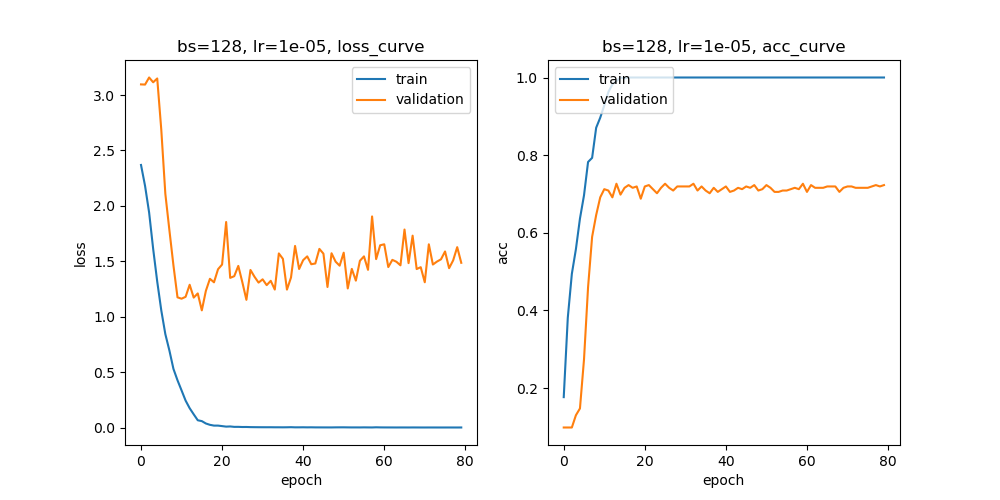
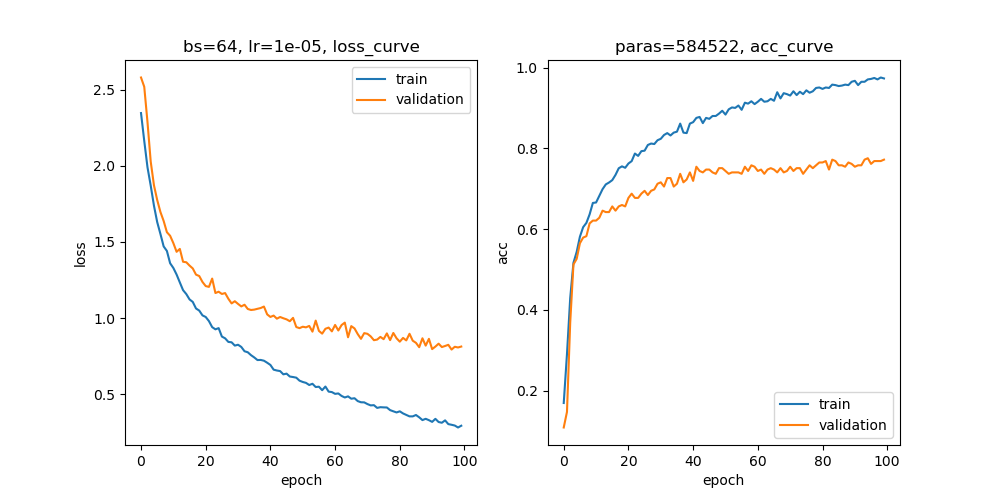
My version complete.

diff --git a/HW1/train.py b/HW1/train.py
@@ -9,8 +9,8 @@ import torchvision
 import numpy as np
 import matplotlib.pyplot as plt
 
-N_EPOTH=80
-BATCH_SIZE=128
+N_EPOTH=100
+BATCH_SIZE=64
 LEARNING_RATE=1e-5
 MODEL_NAME = "sport_model.pth"
 
@@ -100,7 +100,8 @@ class SportVGGNet(nn.Module):
             nn.ReLU(inplace=True),
             nn.Conv2d(in_channels=512, out_channels=512, kernel_size=3, stride=1, padding=1),
             nn.BatchNorm2d(num_features=512),
-            nn.ReLU(inplace=True)
+            nn.ReLU(inplace=True),
+            nn.MaxPool2d(kernel_size=2, stride=2)
         )
         self.avgpool = nn.AdaptiveAvgPool2d((7, 7))
         self.fc_block = nn.Sequential(
@@ -125,10 +126,82 @@ class SportVGGNet(nn.Module):
         output = self.fc_block(output)
         return output
 
+class MySportVGGNet(nn.Module):
+    def __init__(self):
+        super(MySportVGGNet, self).__init__()
+
+        self.conv_block_1=nn.Sequential(
+            nn.Conv2d(in_channels=3, out_channels=64, kernel_size=3, stride=1, padding=1),
+            nn.BatchNorm2d(num_features=64),
+            nn.ReLU(inplace=True),
+            nn.Conv2d(in_channels=64, out_channels=64, kernel_size=1, stride=1, padding=0),
+            nn.BatchNorm2d(num_features=64),
+            nn.ReLU(inplace=True),
+            nn.MaxPool2d(2, 2)
+        )
+        self.conv_block_2=nn.Sequential(
+            nn.Conv2d(in_channels=64, out_channels=128, kernel_size=3, stride=1, padding=1),
+            nn.BatchNorm2d(num_features=128),
+            nn.ReLU(inplace=True),
+            nn.Conv2d(in_channels=128, out_channels=128, kernel_size=1, stride=1, padding=0),
+            nn.BatchNorm2d(num_features=128),
+            nn.ReLU(inplace=True),
+            nn.MaxPool2d(2, 2)
+        )
+        self.conv_block_3=nn.Sequential(
+            nn.Conv2d(in_channels=128, out_channels=256, kernel_size=3, stride=1, padding=1),
+            nn.BatchNorm2d(num_features=256),
+            nn.ReLU(inplace=True),
+            nn.Conv2d(in_channels=256, out_channels=256, kernel_size=1, stride=1, padding=0),
+            nn.BatchNorm2d(num_features=256),
+            nn.ReLU(inplace=True),
+            nn.MaxPool2d(2, 2)
+        )
+        # self.conv_block_4=nn.Sequential(
+        #     nn.Conv2d(in_channels=256, out_channels=512, kernel_size=3, stride=1, padding=1),
+        #     nn.BatchNorm2d(num_features=512),
+        #     nn.ReLU(inplace=True),
+        #     nn.Conv2d(in_channels=512, out_channels=512, kernel_size=1, stride=1, padding=0),
+        #     nn.BatchNorm2d(num_features=512),
+        #     nn.ReLU(inplace=True),
+        #     nn.MaxPool2d(kernel_size=2, stride=2)
+        # )
+        # self.conv_block_5=nn.Sequential(
+        #     nn.Conv2d(in_channels=512, out_channels=512, kernel_size=3, stride=1, padding=1),
+        #     nn.BatchNorm2d(num_features=512),
+        #     nn.ReLU(inplace=True),
+        #     nn.Conv2d(in_channels=512, out_channels=512, kernel_size=1, stride=1, padding=0),
+        #     nn.BatchNorm2d(num_features=512),
+        #     nn.ReLU(inplace=True),
+        #     nn.MaxPool2d(kernel_size=2, stride=2)
+
+        # )
+        self.avgpool = nn.AdaptiveAvgPool2d((7, 7))
+        self.fc_block = nn.Sequential(
+            nn.Linear(in_features = 7*7*256, out_features = 10)
+            # nn.Dropout(0.1),
+            # nn.Linear(in_features = 4096, out_features = 4096),
+            # nn.ReLU(inplace=True),
+            # nn.Dropout(0.1),
+            # nn.Linear(in_features = 100, out_features = 10)
+        )
+
+    def forward(self, x):
+        output = self.conv_block_1(x)
+        output = self.conv_block_2(output)
+        output = self.conv_block_3(output)
+        # output = self.conv_block_4(output)
+        # output = self.conv_block_5(output)
+        output = self.avgpool(output)
+        # flatten
+        output = output.reshape(output.shape[0], -1)
+        output = self.fc_block(output)
+        return output
+
 
 def main():
     # Device
-    device =torch.device('cuda:1' if torch.cuda.is_available() else 'cpu')
+    device =torch.device('cuda:2' if torch.cuda.is_available() else 'cpu')
     print('Device: ', device)
     # dataset
     train_dataset = SportLoader("train")
@@ -137,13 +210,15 @@ def main():
     train_loader = DataLoader(train_dataset, batch_size=BATCH_SIZE, shuffle=True)
     val_loader = DataLoader(val_dataset, batch_size=BATCH_SIZE, shuffle=True)
     #loss and optimizer
-    model = SportVGGNet().to(device)
+    model = MySportVGGNet().to(device)
     criterion = nn.CrossEntropyLoss()
     optimizer = torch.optim.Adam(model.parameters(), lr=LEARNING_RATE)
     train_loss = []
     train_acc = []
     val_loss=[]
     val_acc=[]
+    num_params = sum(p.numel() for p in model.parameters() if p.requires_grad)
+    print("Numbers of model's parameters: {}".format(num_params))
     for epoch in tqdm(range(N_EPOTH), desc="EPOCH"):
         # training
         model.train(True)
@@ -201,10 +276,10 @@ def main():
     plt.subplot(1, 2, 2)
     plt.plot(epoch_num, train_acc,label="train" )
     plt.plot(epoch_num, val_acc, label="validation")
-    plt.title("bs={}, lr={}, acc_curve".format(BATCH_SIZE, LEARNING_RATE))
+    plt.title("paras={}, acc_curve".format(num_params))
     plt.xlabel('epoch')
     plt.ylabel('acc')
-    plt.legend(loc = "upper left")
+    plt.legend(loc = "lower right")
 
     plt.savefig("loss_acc.png")
 

diff --git a/HW1/test.py b/HW1/test.py
@@ -9,7 +9,7 @@ import torchvision
 import numpy as np
 import matplotlib.pyplot as plt
 import os
-from train import SportVGGNet
+from train import MySportVGGNet
 
 TEST_PATH="Data/test"
 
@@ -33,7 +33,7 @@ def main():
     device =torch.device('cuda:1' if torch.cuda.is_available() else 'cpu')
     print('Device: ', device)
     # load model
-    model = SportVGGNet().to(device)
+    model = MySportVGGNet().to(device)
     model.load_state_dict(torch.load("sport_model.pth"))
 
     test_dataset = TestLoader(TEST_PATH)
@@ -45,7 +45,7 @@ def main():
             x=x.to(device)
             pred = model(x)
             _, idx = torch.max(pred, 1)
-        f.write("{},{}\n".format("".join(img_name), idx.item()))
+        f.write("{}, {}\n".format("".join(img_name), idx.item()))
 
     f.close()
 
